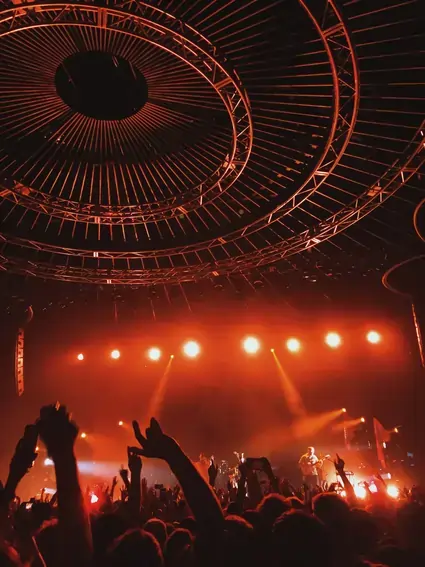
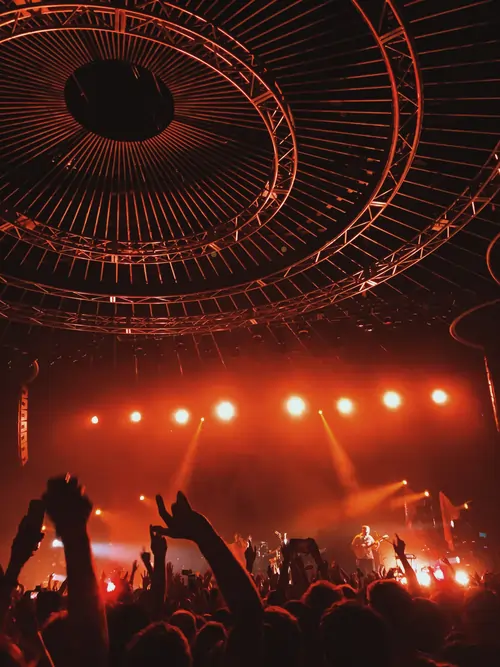
correction taille image

diff --git a/index.html b/index.html
@@ -47,13 +47,13 @@
 			</div>
 			<div class="carousel-inner">
 				<div class="carousel-item active">
-					<img src="./assets/images/slider/ryoji-iwata-compressed.webp" class="d-block w-100" alt="homme d'affaires traversant un passage piéton de dos">
+					<img src="./assets/images/slider/ryoji-iwata-compressed.webp" class="d-block w-100" alt="">
 				</div>
 				<div class="carousel-item">
-					<img src="./assets/images/slider/nicholas-green-compressed.webp" class="d-block w-100" alt="foule de personnes lors d'un concert">
+					<img src="./assets/images/slider/nicholas-green-compressed.webp" class="d-block w-100" alt="">
 				</div>
 				<div class="carousel-item">
-					<img src="./assets/images/slider/edward-cisneros-compressed.webp" class="d-block w-100" alt="couple de mariés s'embrassant">
+					<img src="./assets/images/slider/edward-cisneros-compressed.webp" class="d-block w-100" alt="">
 				</div>
 			</div>
 			<button class="carousel-control-prev" type="button" data-bs-target="#carouselExampleIndicators" data-bs-slide="prev">
@@ -128,10 +128,10 @@
 			<div class="service">
 				<div class="service__description">
 					<h3>Album photos</h3>
-					<p>Partagez avec vos proches et vos clients les photos des moments partagés ensemble à travers un album photo personnalisé</p>
+					<p>Revivez avec vos proches et vos clients les photos des moments partagés ensemble à travers un album photo personnalisé</p>
 				</div>
 				<div class="service__price">
-					<h4>400€ album A4</h4>
+					<h4>400€/album A4</h4>
 					<span>30 pages recto/verso</span>
 				</div>
 			</div>
@@ -139,8 +139,8 @@
 	</section>
 	<div class="quote">
 		<figure>
-			<blockquote>
-				<h1 class="quote__text">De manière inconsciente, je crois, je guette un regard, une expression, des traits ou une nostalgie capable de résumer ou plus exactement de révéler une vie</h1>
+			<blockquote class="quote__text">
+				<p >De manière inconsciente, je crois, je guette un regard, une expression, des traits ou une nostalgie capable de résumer ou plus exactement de révéler une vie</p>
 			</blockquote>
 			<figcaption class="quote__author">- Richard Avedon</figcaption>
 		</figure>

diff --git a/assets/style.css b/assets/style.css
@@ -47,11 +47,14 @@ body {
 }
 
 /** Main Styles **/
+
+/** Carousel Styles **/
 .carousel-item img.d-block.w-100 {
 	width: 1521px;
-	height: 704px;
+	height: auto;
 }
 
+/** About Me Section Styles **/
 #about {
 	display: flex;
 	background-color: #F6D2B8;
@@ -102,6 +105,7 @@ body {
 	font-size: 14px;
 }
 
+/** Gallery Section Styles **/
 #gallery {
 	min-height: 100vh;
 }
@@ -115,14 +119,16 @@ body {
 	justify-content: center;
 }
 
-.nav-pills .nav-link.active, .nav-pills .show > .nav-link {
+.nav-pills .nav-link.active-tag, .nav-pills .show > .nav-link{
 	color: #fff;
-	background-color: #2a5032;
-	border-radius:0 ;
+	background-color: #803707;
+	border-radius: 20px;
+	cursor: pointer;
 }
 
 .nav-pills .nav-link {
-	color: #000
+	color: #000;
+	cursor: pointer;
 }
 
 .item-column {
@@ -149,13 +155,14 @@ body {
 .mg-prev, .mg-next {
 	width: 30px;
 	height: 30px;
-	border-radius: 00%;
+	border-radius: 10%;
 	justify-content: center;
 	align-items: center;
 	display: flex;
 	font-size: 24px;
 }
 
+/** Quote Styles **/
 .quote {
 	width: 70%;
 	margin: auto;
@@ -174,6 +181,7 @@ body {
 	font-size: 22px;
 }
 
+/** Services Section Styles **/
 #services {
 	margin: auto;
 	background-color: #A8D5D8 ;
@@ -209,6 +217,7 @@ body {
 	z-index: 1;
 }
 
+/** Contact Section Styles **/
 #contact {
 	margin: auto;
 	background-color: #D8D3A8 ;
@@ -267,6 +276,7 @@ input[type="submit"] {
 	padding: .5em 1em
 }
 
+/** Responsive Styles **/
 @media all and (max-width: 1180px) {
 	.picture {
 		flex : 2;
